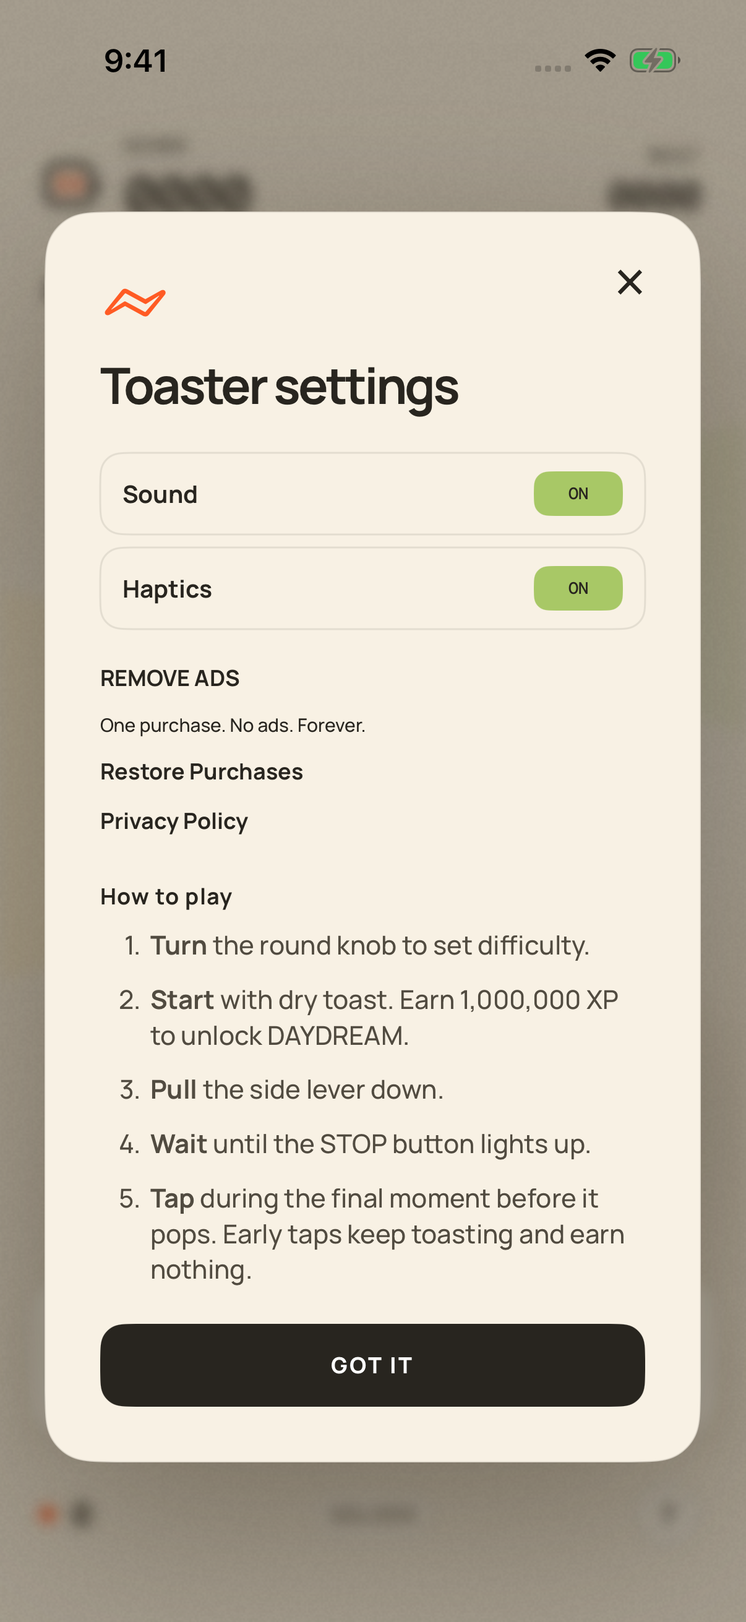
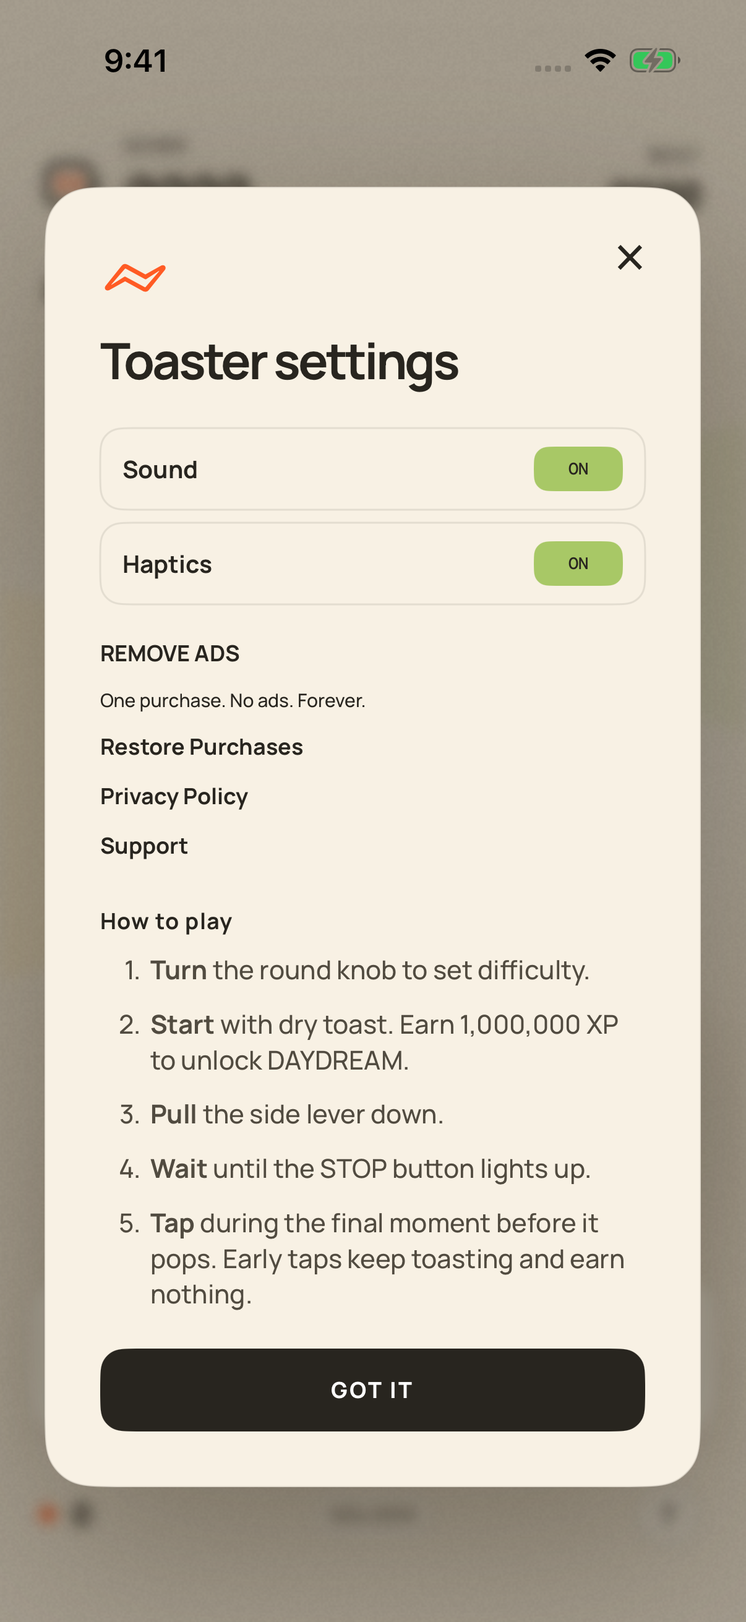
Prepare build 6 with live Toastyy support and privacy links

diff --git a/ios/AppStore/launch-kit/todo.html b/ios/AppStore/launch-kit/todo.html
@@ -1,5 +1,5 @@
 <!doctype html><html lang="de"><head><meta charset="utf-8"><meta name="viewport" content="width=device-width,initial-scale=1"><title>Toastyy · Deine Launch-To-dos</title><style>
 :root{color-scheme:light dark;--background:light-dark(#f7f3e9,#171714);--foreground:light-dark(#29271f,#f5efdf);--muted:light-dark(#686354,#bbb49f);--card:light-dark(#fffaf0,#24231e);--border:light-dark(#ddd4c1,#494438);--primary:light-dark(#a83712,#ffac88);--success:light-dark(#496324,#c0d991);--radius:18px;--font-sans:system-ui,-apple-system,sans-serif}*{box-sizing:border-box}body{margin:0;color:var(--foreground);font-family:var(--font-sans);font-size:15px;line-height:1.55}.wrap{max-width:760px;margin:0 auto}header{padding:12px 0 18px}.eyebrow{color:var(--primary);font-size:11px;letter-spacing:.15em;font-weight:800}h1{font-size:clamp(29px,6vw,42px);line-height:1.1;letter-spacing:-.055em;margin:9px 0 12px}p{margin:9px 0}.muted{color:var(--muted)}.status{background:var(--card);padding:16px;border:1px solid var(--border);border-radius:var(--radius);margin:12px 0 22px}.status strong{color:var(--success)}.status p{margin:5px 0;font-size:13px}.progress-row{display:flex;justify-content:space-between;align-items:center;gap:12px;font-size:13px;margin:0 0 8px}progress{width:100%;height:9px;accent-color:var(--primary);display:block}.task{display:grid;grid-template-columns:24px 1fr;gap:12px;background:var(--card);padding:16px;border:1px solid var(--border);border-radius:var(--radius);margin:9px 0}.task>input{width:21px;height:21px;margin:17px 0 0;accent-color:var(--success);cursor:pointer}summary{cursor:pointer;list-style:none;display:flex;flex-direction:column;gap:3px;padding-right:20px;position:relative}summary::-webkit-details-marker{display:none}summary:after{content:'+';position:absolute;right:0;top:16px;color:var(--muted);font-size:21px}details[open] summary:after{content:'−'}.tag{color:var(--muted);font-size:10px;letter-spacing:.08em;text-transform:uppercase}.task-title{font-weight:700;font-size:16px;line-height:1.4}.task.done .task-title{text-decoration:line-through;color:var(--muted)}.detail{font-size:14px;padding-top:12px;color:var(--muted)}.detail strong{color:var(--foreground)}a{color:var(--primary);text-underline-offset:3px}code{font-size:12px;overflow-wrap:anywhere}.criterion{border-top:1px solid var(--border);padding-top:10px;color:var(--foreground)}.notes{margin-top:22px}label[for=notes]{font-weight:700}textarea{margin-top:8px;display:block;width:100%;min-height:95px;resize:vertical;border:1px solid var(--border);border-radius:12px;background:var(--card);color:var(--foreground);padding:12px;font:inherit}.actions{display:flex;flex-wrap:wrap;gap:9px;margin:14px 0}button,.button{font:inherit;border:1px solid var(--border);border-radius:10px;background:var(--card);color:var(--foreground);padding:9px 13px;cursor:pointer;text-decoration:none}.foot{font-size:12px;color:var(--muted);padding:6px 0 18px}:focus-visible{outline:3px solid var(--primary);outline-offset:4px}@media print{details>.detail{display:block}.actions{display:none}.task{break-inside:avoid}body{font-size:12px}}@media(max-width:430px){.task{padding:13px;gap:9px}.task-title{font-size:15px}}
-</style></head><body><main class="wrap"><header><span class="eyebrow">TOASTYY · RELEASE 1.0</span><h1>Dein Launch-Nachmittag.</h1><p class="muted">Die App steht. Hier sind die letzten Aufgaben – aufklappen, erledigen, abhaken.</p></header><section class="status" aria-label="Vorbereitungsstand"><strong>Vorbereitet: Build 5 hochgeladen, Screenshots und Texte fertig.</strong><p>16 Gameplay-Tests zuvor erfolgreich; beide aktuellen UI-Tests auf iPhone 17 Pro bestanden. Support-Seite, Publisher-Datei und Datenschutz-Arbeitsblatt liegen im Paket.</p><p>Offen: Apple-/Google-Anmeldung, Gerätetests, Website-Veröffentlichung und Produktionsfreigabe. Kontostatus/Apple-Verarbeitung heute nicht verifiziert. Stand: 10. November 2026.</p></section><div class="progress-row"><span id="count" role="status" aria-live="polite">0 von 8 erledigt</span><button type="button" id="expand">Alle öffnen</button></div><progress id="progress" max="8" value="0" aria-label="Dein Fortschritt"></progress><article class="task"><input type="checkbox" id="apple" aria-label="Erledigt: Apple anmelden &amp; Build 5 prüfen"><details><summary><span class="tag">Zugang</span><span class="task-title">Apple anmelden &amp; Build 5 prüfen</span></summary><div class="detail"><p>In App Store Connect anmelden, nötige Zwei-Faktor-Bestätigung selbst erledigen. Unter Toastyy → TestFlight prüfen, dass <strong>1.0.0 (5)</strong> verarbeitet und deiner internen Testgruppe zugewiesen ist. Bei fehlender Einladung deine Apple-ID als internen Tester zuordnen.</p><p><a href="https://appstoreconnect.apple.com/apps/6826357624/testflight/ios" target="_blank" rel="noopener">TestFlight öffnen ↗</a></p><p class="criterion">Erledigt, wenn Build 5 auf deinem iPhone installiert ist.</p></div></details></article><article class="task"><input type="checkbox" id="phone" aria-label="Erledigt: Die App auf deinem iPhone abnehmen"><details><summary><span class="tag">Gerätetest</span><span class="task-title">Die App auf deinem iPhone abnehmen</span></summary><div class="detail"><p>Bestehende Installation über TestFlight aktualisieren. XP/Rekorde müssen bleiben. Hebel tippen und ziehen, Kamerafahrt, alle Schwierigkeiten, Ton/Haptik und App-Wechsel prüfen.</p><p><strong>Wichtig:</strong> Doppeltippen direkt nach Start darf keine Punkte/XP bringen. Erst in den letzten 720 ms wird WAIT zu STOP. Zu spät führt zu verbranntem Toast.</p><p>Auch offline und mit „Bewegung reduzieren“ testen. <a href="device-test.de.md">Ausführliche Testliste</a></p><p class="criterion">Erledigt, wenn keine blockierenden Fehler auftreten; Auffälligkeiten unten notieren.</p></div></details></article><article class="task"><input type="checkbox" id="business" aria-label="Erledigt: Apple-Verträge &amp; EU-Händlerstatus abschließen"><details><summary><span class="tag">Account-Inhaber</span><span class="task-title">Apple-Verträge &amp; EU-Händlerstatus abschließen</span></summary><div class="detail"><p>In App Store Connect → Business den aktuellen Status prüfen. Falls noch offen: Paid Applications Agreement bestätigen und erforderliche Steuer-/Bankdaten ergänzen. Die EU-Händlerregistrierung inklusive E-Mail-/Telefon-/Identitätsprüfung abschließen.</p><p>Die früheren Unterlagen vermerkten offene Bestätigungen; der heutige Status ist ohne Anmeldung nicht geprüft.</p><p><a href="https://appstoreconnect.apple.com/business" target="_blank" rel="noopener">Business öffnen ↗</a> · <a href="https://developer.apple.com/help/app-store-connect/manage-compliance-information/manage-european-union-digital-services-act-trader-requirements/" target="_blank" rel="noopener">Apple-Hilfe ↗</a></p><p class="criterion">Erledigt, wenn relevante Verträge aktiv sind und Apple keine fehlenden Händler-/Zahlungsangaben meldet.</p></div></details></article><article class="task"><input type="checkbox" id="privacy" aria-label="Erledigt: Website &amp; Datenschutzhinweise veröffentlichen"><details><summary><span class="tag">Vorbereitet</span><span class="task-title">Website &amp; Datenschutzhinweise veröffentlichen</span></summary><div class="detail"><p>Support-Seite und app-ads.txt sind fertig. Im <a href="README.md">Release-Paket</a> stehen die konkreten Kopier- und Veröffentlichungsschritte. Der Toastyy-Datenschutzentwurf muss mit der tatsächlichen AdMob-Auswahl abgeglichen und in die bestehende Datenschutzerklärung integriert werden.</p><p>Danach Support-Seite öffentlich prüfen und die Support-URL in App Store Connect setzen. <code>/app-ads.txt</code> lieferte beim Check noch HTTP 404.</p><p><a href="website/toastyy-support.html">Support-Seite ansehen</a> · <a href="../privacy-addition.de.md">Datenschutzentwurf</a> · <a href="https://miomideal.com/privacy-policy" target="_blank" rel="noopener">Aktuelle Website ↗</a></p><p class="criterion">Erledigt, wenn die App-Hinweise, Support-Seite und Publisher-Datei öffentlich erreichbar und korrekt sind.</p></div></details></article><article class="task"><input type="checkbox" id="ads" aria-label="Erledigt: AdMob-Einwilligung &amp; Werbedaten abgleichen"><details><summary><span class="tag">Google-Anmeldung</span><span class="task-title">AdMob-Einwilligung &amp; Werbedaten abgleichen</span></summary><div class="detail"><p>In AdMob die Toastyy-App öffnen: <code>ca-app-pub-5162263720207671~7785962920</code>. Unter Privacy & messaging die passenden Nachrichten/Anbieter/Zwecke konfigurieren und veröffentlichen. Entwicklerwebsite und Store-App korrekt zuordnen; app-ads.txt-Verifizierung prüfen.</p><p>Auf dem iPhone Einwilligung akzeptieren, ablehnen und über Advertising Privacy Choices wieder öffnen, soweit erforderlich. Build 5 nutzt Testanzeigen. Anzeigen sind frühestens nach sechs Runden und zwei Minuten bei einer verbrannten Runde berechtigt.</p><p>Die endgültige Werbeauswahl mit Datenschutztext und Apples App-Privacy-Antworten abstimmen. <a href="app-privacy.de.md">Vorbereitetes Arbeitsblatt</a> · <a href="https://apps.admob.com/" target="_blank" rel="noopener">AdMob öffnen ↗</a></p><p class="criterion">Erledigt, wenn Einwilligung und Testanzeigen funktionieren und die tatsächliche Datennutzung dokumentiert ist.</p></div></details></article><article class="task"><input type="checkbox" id="iap" aria-label="Erledigt: Remove Ads kaufen &amp; wiederherstellen"><details><summary><span class="tag">TestFlight-Sandbox</span><span class="task-title">Remove Ads kaufen &amp; wiederherstellen</span></summary><div class="detail"><p><strong>Aktuell bei deinem Gerätetest bestätigt:</strong> „The purchase is not available yet.“ Das Produkt konnte nicht geladen werden; ein Fehler oder eine leere StoreKit-Produktantwort werden im aktuellen Build gleich behandelt. Zuerst Apple-Vertrag und Produktkonfiguration prüfen.</p><p>Einstellungen → Remove Ads: Preis muss laden. Sandbox-Kauf und Abbruch testen. Nach erfolgreichem Kauf dürfen keine Anzeigen mehr geladen/angezeigt werden. Danach Neustart und Restore Purchases mit demselben Apple-Account prüfen.</p><p>TestFlight-Käufe laufen in der Sandbox. Falls Produkt/Preis fehlen: Vertrag und Produkt <code>com.toastyy.app.removeads</code> in App Store Connect prüfen. Kauf stellt die werbefreie Berechtigung wieder her, keine XP.</p><p><a href="https://appstoreconnect.apple.com/apps/6826357624/distribution" target="_blank" rel="noopener">App Store Connect öffnen ↗</a></p><p class="criterion">Erledigt, wenn Kauf, Abbruch und Wiederherstellung auf dem echten iPhone funktionieren.</p></div></details></article><article class="task"><input type="checkbox" id="store" aria-label="Erledigt: Neue Screenshots &amp; Store-Angaben übernehmen"><details><summary><span class="tag">Upload bereit</span><span class="task-title">Neue Screenshots &amp; Store-Angaben übernehmen</span></summary><div class="detail"><p>Die vier aktualisierten PNGs liegen unter <code>ios/AppStore/screenshots/</code>: drei Store-Screenshots und ein Remove-Ads-Reviewbild. Format: 1206 × 2622, ohne Alpha. Die bisherigen Bilder in App Store Connect ersetzen.</p><p><code>listing.en-US.json</code> enthält passende Beschreibung und Review-Hinweise zum STOP-Fenster. <code>testflight-notes.en.txt</code> enthält die Testhinweise. App Privacy anhand der finalen Werbekonfiguration vervollständigen; nicht pauschal „Keine Daten erfasst“ wählen.</p><p><a href="../screenshots/01-ready.png">Ready</a> · <a href="../screenshots/02-toasting.png">Toasting</a> · <a href="../screenshots/03-collection.png">Collection</a> · <a href="../listing.en-US.json">Store-Texte</a></p><p class="criterion">Erledigt, wenn Bilder, Texte, Support-/Privacy-URL und App-Privacy-Angaben gespeichert sind.</p></div></details></article><article class="task"><input type="checkbox" id="release" aria-label="Erledigt: Produktionsbuild &amp; erste Prüfung abschließen"><details><summary><span class="tag">Nach den Tests</span><span class="task-title">Produktionsbuild &amp; erste Prüfung abschließen</span></summary><div class="detail"><p>Mit den Testergebnissen hier weitermachen: finalen Produktionsbuild mit neuer Buildnummer vorbereiten. Testanzeigen erst nach bestätigter AdMob-/Datenschutzkonfiguration abschalten; Produktionskonfiguration auf registrierten Testgeräten prüfen.</p><p>Verarbeiteten finalen Build auswählen und den ersten Remove-Ads-Kauf zur selben ersten App-Einreichung hinzufügen. Manuelle Veröffentlichung beibehalten. Dann App Review einreichen; nach Freigabe kannst du den Start auslösen.</p><p><strong>Build 5 ist der Testkandidat, kein bereits eingereichter Produktionsrelease.</strong> <a href="https://developer.apple.com/help/app-store-connect/manage-submissions-to-app-review/submit-an-in-app-purchase/" target="_blank" rel="noopener">Apple-Hilfe zur ersten IAP-Einreichung ↗</a></p><p class="criterion">Erledigt, wenn der geprüfte Produktionsbuild samt In-App-Kauf zur Prüfung eingereicht wurde.</p></div></details></article><section class="notes"><label for="notes">Deine Testnotizen</label><p class="muted" style="font-size:12px">Gerät, iOS-Version und Auffälligkeiten. Keine Zugangsdaten oder Codes.</p><textarea id="notes" placeholder="Zum Beispiel: iPhone … / iOS … / Kamerafahrt passt …"></textarea></section><div class="actions"><button type="button" id="export">Fortschritt exportieren</button><button type="button" id="import">Fortschritt laden</button><input id="file" type="file" accept="application/json,.json" hidden><button type="button" id="print">Drucken / PDF</button><a class="button" href="README.md">Zum Release-Paket</a></div><p id="storage" class="foot" role="status">Häkchen und Notizen werden nur in diesem Browser gespeichert. Für einen anderen Browser oder eine spätere Übergabe exportieren.</p></main><script>
-(()=>{'use strict';const key='toastyy-launch-1.0-build5-v1';const boxes=[...document.querySelectorAll('.task>input')];const notes=document.getElementById('notes');const state=()=>({version:1,build:5,checked:boxes.filter(b=>b.checked).map(b=>b.id),notes:notes.value});const paint=()=>{const n=boxes.filter(b=>b.checked).length;document.getElementById('count').textContent=n+' von '+boxes.length+' erledigt';document.getElementById('progress').value=n;boxes.forEach(b=>b.closest('.task').classList.toggle('done',b.checked))};const save=()=>{paint();try{localStorage.setItem(key,JSON.stringify(state()))}catch{document.getElementById('storage').textContent='Lokales Speichern ist hier nicht verfügbar. Bitte den Fortschritt exportieren.'}};const apply=s=>{if(!s||s.version!==1||s.build!==5||!Array.isArray(s.checked)||s.checked.some(x=>typeof x!=='string')||(s.notes!==undefined&&typeof s.notes!=='string'))throw Error('Ungültige Datei');boxes.forEach(b=>b.checked=s.checked.includes(b.id));notes.value=s.notes||'';paint()};try{const raw=localStorage.getItem(key);if(raw)apply(JSON.parse(raw))}catch{}boxes.forEach(b=>b.addEventListener('change',save));notes.addEventListener('input',save);document.getElementById('export').addEventListener('click',()=>{const url=URL.createObjectURL(new Blob([JSON.stringify(state(),null,2)],{type:'application/json'}));const a=document.createElement('a');a.href=url;a.download='toastyy-launch-fortschritt.json';a.click();setTimeout(()=>URL.revokeObjectURL(url),1000)});document.getElementById('import').addEventListener('click',()=>document.getElementById('file').click());document.getElementById('file').addEventListener('change',async e=>{const f=e.target.files[0];if(!f)return;try{apply(JSON.parse(await f.text()));save();document.getElementById('storage').textContent='Fortschritt geladen und lokal gespeichert.'}catch{document.getElementById('storage').textContent='Diese Datei ist keine gültige Toastyy-Checkliste für Build 5.'}e.target.value=''});document.getElementById('print').addEventListener('click',()=>{document.querySelectorAll('details').forEach(d=>d.open=true);window.print()});document.getElementById('expand').addEventListener('click',e=>{const all=[...document.querySelectorAll('details')];const open=all.some(d=>!d.open);all.forEach(d=>d.open=open);e.target.textContent=open?'Alle schließen':'Alle öffnen'});paint()})();
+</style></head><body><main class="wrap"><header><span class="eyebrow">TOASTYY · RELEASE 1.0</span><h1>Dein Launch-Nachmittag.</h1><p class="muted">Die App steht. Hier sind die letzten Aufgaben – aufklappen, erledigen, abhaken.</p></header><section class="status" aria-label="Vorbereitungsstand"><strong>Live: Toastyy-Seiten veröffentlicht. Build 6 hochgeladen.</strong><p>16 Gameplay-Tests zuvor erfolgreich; beide aktuellen UI-Tests auf iPhone 17 Pro bestanden. Support- und Datenschutzseiten sind live; die Publisher-Datei ist auch auf der Hauptdomain erreichbar.</p><p>Offen: W-8BEN-Steuerangaben, Bankverarbeitung, DSA-Prüfung, AdMob und Gerätetests. Paid Apps Agreement: Pending User Info. Apple-Verarbeitung von Build 6 noch nicht geprüft. Stand: 11. November 2026.</p></section><div class="progress-row"><span id="count" role="status" aria-live="polite">0 von 8 erledigt</span><button type="button" id="expand">Alle öffnen</button></div><progress id="progress" max="8" value="0" aria-label="Dein Fortschritt"></progress><article class="task"><input type="checkbox" id="apple" aria-label="Erledigt: Apple anmelden &amp; Build 6 prüfen"><details><summary><span class="tag">Zugang</span><span class="task-title">Apple anmelden &amp; Build 6 prüfen</span></summary><div class="detail"><p>In App Store Connect anmelden, nötige Zwei-Faktor-Bestätigung selbst erledigen. Unter Toastyy → TestFlight prüfen, dass <strong>1.0.0 (5)</strong> verarbeitet und deiner internen Testgruppe zugewiesen ist. Bei fehlender Einladung deine Apple-ID als internen Tester zuordnen.</p><p><a href="https://appstoreconnect.apple.com/apps/6826357624/testflight/ios" target="_blank" rel="noopener">TestFlight öffnen ↗</a></p><p class="criterion">Erledigt, wenn Build 6 auf deinem iPhone installiert ist.</p></div></details></article><article class="task"><input type="checkbox" id="phone" aria-label="Erledigt: Die App auf deinem iPhone abnehmen"><details><summary><span class="tag">Gerätetest</span><span class="task-title">Die App auf deinem iPhone abnehmen</span></summary><div class="detail"><p>Bestehende Installation über TestFlight aktualisieren. XP/Rekorde müssen bleiben. Hebel tippen und ziehen, Kamerafahrt, alle Schwierigkeiten, Ton/Haptik und App-Wechsel prüfen.</p><p><strong>Wichtig:</strong> Doppeltippen direkt nach Start darf keine Punkte/XP bringen. Erst in den letzten 720 ms wird WAIT zu STOP. Zu spät führt zu verbranntem Toast.</p><p>Auch offline und mit „Bewegung reduzieren“ testen. <a href="device-test.de.md">Ausführliche Testliste</a></p><p class="criterion">Erledigt, wenn keine blockierenden Fehler auftreten; Auffälligkeiten unten notieren.</p></div></details></article><article class="task"><input type="checkbox" id="business" aria-label="Erledigt: Apple-Verträge &amp; EU-Händlerstatus abschließen"><details><summary><span class="tag">Account-Inhaber</span><span class="task-title">Apple-Verträge &amp; EU-Händlerstatus abschließen</span></summary><div class="detail"><p>In App Store Connect → Business den aktuellen Status prüfen. Falls noch offen: Paid Applications Agreement bestätigen und erforderliche Steuer-/Bankdaten ergänzen. Die EU-Händlerregistrierung inklusive E-Mail-/Telefon-/Identitätsprüfung abschließen.</p><p>Heute direkt geprüft: Paid Apps Agreement = Pending User Info; W-8BEN = Missing Tax Info; Banking = Processing; EU-Händlerstatus = In Review.</p><p><a href="https://appstoreconnect.apple.com/business" target="_blank" rel="noopener">Business öffnen ↗</a> · <a href="https://developer.apple.com/help/app-store-connect/manage-compliance-information/manage-european-union-digital-services-act-trader-requirements/" target="_blank" rel="noopener">Apple-Hilfe ↗</a></p><p class="criterion">Erledigt, wenn relevante Verträge aktiv sind und Apple keine fehlenden Händler-/Zahlungsangaben meldet.</p></div></details></article><article class="task"><input type="checkbox" id="privacy" aria-label="Erledigt: Website &amp; Datenschutzhinweise veröffentlichen"><details><summary><span class="tag">Vorbereitet</span><span class="task-title">Website &amp; Datenschutzhinweise veröffentlichen</span></summary><div class="detail"><p><strong>Bereits live:</strong> <a href="https://toasty.app.miomideal.com/support.html">Toastyy Support</a>, <a href="https://toasty.app.miomideal.com/privacy.html">App-Datenschutz</a> und <a href="https://miomideal.com/app-ads.txt">app-ads.txt auf der Hauptdomain</a>. Im <a href="README.md">Release-Paket</a> stehen die konkreten Kopier- und Veröffentlichungsschritte. Die eigenständigen App-Datenschutzhinweise sind veröffentlicht. Die finale AdMob-Auswahl und Apples App-Privacy-Antworten müssen dazu passen.</p><p>Support-, Marketing- und Privacy-URL sind bei Apple gespeichert. Alle neuen öffentlichen URLs liefern HTTP 200 mit dem richtigen Inhalt.</p><p><a href="website/toastyy-support.html">Support-Seite ansehen</a> · <a href="../privacy-addition.de.md">Datenschutzentwurf</a> · <a href="https://miomideal.com/privacy-policy" target="_blank" rel="noopener">Aktuelle Website ↗</a></p><p class="criterion">Erledigt, wenn die App-Hinweise, Support-Seite und Publisher-Datei öffentlich erreichbar und korrekt sind.</p></div></details></article><article class="task"><input type="checkbox" id="ads" aria-label="Erledigt: AdMob-Einwilligung &amp; Werbedaten abgleichen"><details><summary><span class="tag">Google-Anmeldung</span><span class="task-title">AdMob-Einwilligung &amp; Werbedaten abgleichen</span></summary><div class="detail"><p>In AdMob die Toastyy-App öffnen: <code>ca-app-pub-5162263720207671~7785962920</code>. Unter Privacy & messaging die passenden Nachrichten/Anbieter/Zwecke konfigurieren und veröffentlichen. Entwicklerwebsite und Store-App korrekt zuordnen; app-ads.txt-Verifizierung prüfen.</p><p>Auf dem iPhone Einwilligung akzeptieren, ablehnen und über Advertising Privacy Choices wieder öffnen, soweit erforderlich. Build 6 nutzt Testanzeigen. Anzeigen sind frühestens nach sechs Runden und zwei Minuten bei einer verbrannten Runde berechtigt.</p><p>Die endgültige Werbeauswahl mit Datenschutztext und Apples App-Privacy-Antworten abstimmen. <a href="app-privacy.de.md">Vorbereitetes Arbeitsblatt</a> · <a href="https://apps.admob.com/" target="_blank" rel="noopener">AdMob öffnen ↗</a></p><p class="criterion">Erledigt, wenn Einwilligung und Testanzeigen funktionieren und die tatsächliche Datennutzung dokumentiert ist.</p></div></details></article><article class="task"><input type="checkbox" id="iap" aria-label="Erledigt: Remove Ads kaufen &amp; wiederherstellen"><details><summary><span class="tag">TestFlight-Sandbox</span><span class="task-title">Remove Ads kaufen &amp; wiederherstellen</span></summary><div class="detail"><p><strong>Aktuell bei deinem Gerätetest bestätigt:</strong> „The purchase is not available yet.“ Das Produkt konnte nicht geladen werden; ein Fehler oder eine leere StoreKit-Produktantwort werden im aktuellen Build gleich behandelt. Zuerst Apple-Vertrag und Produktkonfiguration prüfen.</p><p>Einstellungen → Remove Ads: Preis muss laden. Sandbox-Kauf und Abbruch testen. Nach erfolgreichem Kauf dürfen keine Anzeigen mehr geladen/angezeigt werden. Danach Neustart und Restore Purchases mit demselben Apple-Account prüfen.</p><p>TestFlight-Käufe laufen in der Sandbox. Falls Produkt/Preis fehlen: Vertrag und Produkt <code>com.toastyy.app.removeads</code> in App Store Connect prüfen. Kauf stellt die werbefreie Berechtigung wieder her, keine XP.</p><p><a href="https://appstoreconnect.apple.com/apps/6826357624/distribution" target="_blank" rel="noopener">App Store Connect öffnen ↗</a></p><p class="criterion">Erledigt, wenn Kauf, Abbruch und Wiederherstellung auf dem echten iPhone funktionieren.</p></div></details></article><article class="task"><input type="checkbox" id="store" aria-label="Erledigt: Neue Screenshots &amp; Store-Angaben übernehmen"><details><summary><span class="tag">Upload bereit</span><span class="task-title">Neue Screenshots &amp; Store-Angaben übernehmen</span></summary><div class="detail"><p>Die vier aktualisierten PNGs liegen unter <code>ios/AppStore/screenshots/</code>: drei Store-Screenshots und ein Remove-Ads-Reviewbild. Format: 1206 × 2622, ohne Alpha. Die drei aktuellen Gameplay-Bilder sind bereits in App Store Connect gespeichert.</p><p><code>listing.en-US.json</code> enthält passende Beschreibung und Review-Hinweise zum STOP-Fenster. <code>testflight-notes.en.txt</code> enthält die Testhinweise. App Privacy anhand der finalen Werbekonfiguration vervollständigen; nicht pauschal „Keine Daten erfasst“ wählen.</p><p><a href="../screenshots/01-ready.png">Ready</a> · <a href="../screenshots/02-toasting.png">Toasting</a> · <a href="../screenshots/03-collection.png">Collection</a> · <a href="../listing.en-US.json">Store-Texte</a></p><p class="criterion">Erledigt, wenn Bilder, Texte, Support-/Privacy-URL und App-Privacy-Angaben gespeichert sind.</p></div></details></article><article class="task"><input type="checkbox" id="release" aria-label="Erledigt: Produktionsbuild &amp; erste Prüfung abschließen"><details><summary><span class="tag">Nach den Tests</span><span class="task-title">Produktionsbuild &amp; erste Prüfung abschließen</span></summary><div class="detail"><p>Mit den Testergebnissen hier weitermachen: finalen Produktionsbuild mit neuer Buildnummer vorbereiten. Testanzeigen erst nach bestätigter AdMob-/Datenschutzkonfiguration abschalten; Produktionskonfiguration auf registrierten Testgeräten prüfen.</p><p>Verarbeiteten finalen Build auswählen und den ersten Remove-Ads-Kauf zur selben ersten App-Einreichung hinzufügen. Manuelle Veröffentlichung beibehalten. Dann App Review einreichen; nach Freigabe kannst du den Start auslösen.</p><p><strong>Build 6 ist der Testkandidat, kein bereits eingereichter Produktionsrelease.</strong> <a href="https://developer.apple.com/help/app-store-connect/manage-submissions-to-app-review/submit-an-in-app-purchase/" target="_blank" rel="noopener">Apple-Hilfe zur ersten IAP-Einreichung ↗</a></p><p class="criterion">Erledigt, wenn der geprüfte Produktionsbuild samt In-App-Kauf zur Prüfung eingereicht wurde.</p></div></details></article><section class="notes"><label for="notes">Deine Testnotizen</label><p class="muted" style="font-size:12px">Gerät, iOS-Version und Auffälligkeiten. Keine Zugangsdaten oder Codes.</p><textarea id="notes" placeholder="Zum Beispiel: iPhone … / iOS … / Kamerafahrt passt …"></textarea></section><div class="actions"><button type="button" id="export">Fortschritt exportieren</button><button type="button" id="import">Fortschritt laden</button><input id="file" type="file" accept="application/json,.json" hidden><button type="button" id="print">Drucken / PDF</button><a class="button" href="README.md">Zum Release-Paket</a></div><p id="storage" class="foot" role="status">Häkchen und Notizen werden nur in diesem Browser gespeichert. Für einen anderen Browser oder eine spätere Übergabe exportieren.</p></main><script>
+(()=>{'use strict';const key='toastyy-launch-1.0-build5-v1';const boxes=[...document.querySelectorAll('.task>input')];const notes=document.getElementById('notes');const state=()=>({version:1,build:6,checked:boxes.filter(b=>b.checked).map(b=>b.id),notes:notes.value});const paint=()=>{const n=boxes.filter(b=>b.checked).length;document.getElementById('count').textContent=n+' von '+boxes.length+' erledigt';document.getElementById('progress').value=n;boxes.forEach(b=>b.closest('.task').classList.toggle('done',b.checked))};const save=()=>{paint();try{localStorage.setItem(key,JSON.stringify(state()))}catch{document.getElementById('storage').textContent='Lokales Speichern ist hier nicht verfügbar. Bitte den Fortschritt exportieren.'}};const apply=s=>{if(!s||s.version!==1||![5,6].includes(s.build)||!Array.isArray(s.checked)||s.checked.some(x=>typeof x!=='string')||(s.notes!==undefined&&typeof s.notes!=='string'))throw Error('Ungültige Datei');boxes.forEach(b=>b.checked=s.checked.includes(b.id));notes.value=s.notes||'';paint()};try{const raw=localStorage.getItem(key);if(raw)apply(JSON.parse(raw))}catch{}boxes.forEach(b=>b.addEventListener('change',save));notes.addEventListener('input',save);document.getElementById('export').addEventListener('click',()=>{const url=URL.createObjectURL(new Blob([JSON.stringify(state(),null,2)],{type:'application/json'}));const a=document.createElement('a');a.href=url;a.download='toastyy-launch-fortschritt.json';a.click();setTimeout(()=>URL.revokeObjectURL(url),1000)});document.getElementById('import').addEventListener('click',()=>document.getElementById('file').click());document.getElementById('file').addEventListener('change',async e=>{const f=e.target.files[0];if(!f)return;try{apply(JSON.parse(await f.text()));save();document.getElementById('storage').textContent='Fortschritt geladen und lokal gespeichert.'}catch{document.getElementById('storage').textContent='Diese Datei ist keine gültige Toastyy-Checkliste für Build 6.'}e.target.value=''});document.getElementById('print').addEventListener('click',()=>{document.querySelectorAll('details').forEach(d=>d.open=true);window.print()});document.getElementById('expand').addEventListener('click',e=>{const all=[...document.querySelectorAll('details')];const open=all.some(d=>!d.open);all.forEach(d=>d.open=open);e.target.textContent=open?'Alle schließen':'Alle öffnen'});paint()})();
 </script></body></html>

diff --git a/ios/AppStore/launch-kit/website/toastyy-support.html b/ios/AppStore/launch-kit/website/toastyy-support.html
@@ -1,9 +1,11 @@
 <!doctype html>
-<html lang="en"><head><meta charset="utf-8"><meta name="viewport" content="width=device-width,initial-scale=1"><title>Toastyy Support · Mio Mideal</title><meta name="description" content="Help with Toastyy timing, sound, local progress and restoring Remove Ads."><style>
+<html lang="en"><head><meta charset="utf-8"><meta name="viewport" content="width=device-width,initial-scale=1"><title>Toastyy Support · Mio Mideal</title><link rel="canonical" href="https://toasty.app.miomideal.com/support.html"><meta name="description" content="Help with Toastyy timing, sound, local progress and restoring Remove Ads."><style>
 :root{color-scheme:light;font-family:system-ui,sans-serif;color:#28251f;background:#f2e9d8}*{box-sizing:border-box}body{margin:0}main{max-width:760px;margin:0 auto;padding:48px 24px}header{margin-bottom:36px}h1{font-size:clamp(36px,8vw,64px);letter-spacing:-.06em;margin:10px 0}h2{font-size:21px;margin:0 0 12px}p,li{line-height:1.7}section{padding:24px;border:1px solid #d7cbb5;border-radius:20px;background:#faf5e8;margin:16px 0}a{color:#98360f;text-underline-offset:3px}a:focus-visible{outline:3px solid #ff5b24;outline-offset:4px}.brand{font-weight:800;letter-spacing:.14em;font-size:13px}footer{font-size:14px;margin-top:30px}
+
+nav{display:flex;flex-wrap:wrap;gap:18px}code{overflow-wrap:anywhere}section[id]{scroll-margin-top:24px}.updated{color:#75634d;font-size:14px}
 </style></head><body><main><header><span class="brand">TOASTYY</span><h1>A little help with your toast.</h1><p>Contact <a href="mailto:legal@miomideal.com">legal@miomideal.com</a> for support. Include your app version, iPhone model, iOS version and steps to reproduce the issue. Please do not send passwords, verification codes or payment details.</p></header>
 <section><h2>How to play</h2><p>Turn the knob to choose difficulty and pull the lever. Wait for the orange button to change from WAIT to STOP, then tap the screen or STOP before the toast burns. Only the final 720 milliseconds accept a stop. Early taps keep the toaster running and earn nothing.</p><p>Save a slice to earn XP; a burnt slice earns 5 XP. DAYDREAM unlocks at 1,000,000 total XP.</p></section>
 <section><h2>Sound and haptics</h2><p>Toggle them independently in Settings. Sound follows your iPhone’s silent mode. Haptics require a supported physical device. The app respects Reduce Motion.</p></section>
 <section><h2>Restore Remove Ads</h2><p>Open Settings → Restore Purchases using the Apple Account that bought Remove Ads. It is a one-time purchase, with no subscription. Contact <a href="https://reportaproblem.apple.com/">Apple for billing and refunds</a>.</p><p>Your XP and records are stored on your device. Deleting the app can remove this progress. Restoring a purchase restores the ad-free entitlement, not your XP.</p></section>
-<section><h2>Advertising and privacy</h2><p>The game remains playable when an ad cannot load. Where required, Settings includes Advertising Privacy Choices. To report an inappropriate ad, use its reporting controls or contact support with the advertiser name, approximate time and a screenshot.</p><p><a href="https://miomideal.com/privacy-policy">Privacy policy</a></p></section>
-<footer><a href="https://miomideal.com/legal-notice">Legal notice</a> · <a href="https://miomideal.com/">Mio Mideal</a></footer></main></body></html>
+<section><h2>Advertising and privacy</h2><p>The game remains playable when an ad cannot load. Where required, Settings includes Advertising Privacy Choices. To report an inappropriate ad, use its reporting controls or contact support with the advertiser name, approximate time and a screenshot.</p><p><a href="https://toasty.app.miomideal.com/privacy.html">Privacy policy</a></p></section>
+<footer><a href="https://toasty.app.miomideal.com/">Play Toastyy</a> · <a href="https://miomideal.com/legal-notice">Legal notice</a> · <a href="https://miomideal.com/">Mio Mideal</a></footer></main></body></html>

diff --git a/ios/Toastyy/App/Monetization.swift b/ios/Toastyy/App/Monetization.swift
@@ -8,7 +8,8 @@ import UserMessagingPlatform
 @MainActor
 final class Monetization: NSObject, ObservableObject, FullScreenContentDelegate {
     static let productID = "com.toastyy.app.removeads"
-    static let privacyURL = URL(string: "https://miomideal.com/privacy-policy")!
+    static let privacyURL = URL(string: "https://toasty.app.miomideal.com/privacy.html")!
+    static let supportURL = URL(string: "https://toasty.app.miomideal.com/support.html")!
     @Published private(set) var adsRemoved = false
     @Published private(set) var product: Product?
     @Published private(set) var busy = false

diff --git a/ios/Toastyy/Views/SettingsView.swift b/ios/Toastyy/Views/SettingsView.swift
@@ -45,6 +45,7 @@ struct SettingsDialog: View {
                         .disabled(monetization.busy)
                         .accessibilityIdentifier("restorePurchases")
                     Link("Privacy Policy", destination: Monetization.privacyURL)
+                    Link("Support", destination: Monetization.supportURL)
                     if monetization.privacyOptionsRequired {
                         Button("Advertising Privacy Choices") { Task { await monetization.privacyOptions() } }
                     }

diff --git a/ios/AppStore/launch-kit/README.md b/ios/AppStore/launch-kit/README.md
@@ -1,6 +1,6 @@
 # Toastyy · Release-Paket
 
-Stand: 10. November 2026. TestFlight 1.0.0 (5) wurde erfolgreich hochgeladen.
+Stand: 11. November 2026. TestFlight 1.0.0 (6) wurde erfolgreich hochgeladen.
 Apple-Verarbeitungsstatus und Testgruppen sind ohne erneute Anmeldung nicht geprüft.
 
 ## Vorbereitet
@@ -16,27 +16,34 @@ Apple-Verarbeitungsstatus und Testgruppen sind ohne erneute Anmeldung nicht gepr
   Keine Alpha-Kanäle; `screenshot-manifest.json` enthält Prüfsummen. Noch nicht hochgeladen.
 - `todo.html`: persönliche Checkliste mit lokal gespeicherten Häkchen und Export.
 
-## Website veröffentlichen
+## Website ist live · 11. November 2026
 
-Das lokale Website-Projekt liegt unter `/Users/heroine/ras/dev/mio/mio_page`.
-Dort liegen fremde, noch nicht committete Änderungen. Deshalb wurde keine
-Website-Veröffentlichung oder Änderung an diesen Arbeiten vorgenommen.
+- Support: https://toasty.app.miomideal.com/support.html
+- App-Datenschutz: https://toasty.app.miomideal.com/privacy.html
+- Publisher-Datei: https://toasty.app.miomideal.com/app-ads.txt
+- Crawler-Einstieg: https://miomideal.com/app-ads.txt
 
-1. `website/toastyy-support.html` nach `mio_page/public/toastyy-support.html` kopieren.
-2. `website/app-ads.txt` nach `mio_page/public/app-ads.txt` kopieren. Vorhandene Publisher-Zeilen erhalten.
-3. Die geprüfte Toastyy-Ergänzung in `mio_page/src/app/privacy-policy/page.tsx` einbauen.
-   Die Aussage zu fehlenden Marketing-Cookies ausdrücklich auf die Website begrenzen.
-4. Gezielt Website-Änderungen prüfen und deployen; keine fremden Änderungen blind mit veröffentlichen.
-5. Öffentlich prüfen:
-   - `https://miomideal.com/toastyy-support.html` zeigt die Support-Seite.
-   - `https://miomideal.com/app-ads.txt` liefert den Publisher-Eintrag als Text.
-   - `https://miomideal.com/privacy-policy` enthält die geprüfte Toastyy-Ergänzung.
-6. Erst dann in App Store Connect die Support-URL auf die neue Seite ändern.
-   In AdMob die Store-App und Entwicklerwebsite korrekt zuordnen und Verifizierung anstoßen.
+Alle vier URLs liefern HTTP 200 mit dem erwarteten Inhalt. Support/Marketing-URL
+und Privacy Policy URL sind in App Store Connect gespeichert. Der Webserver
+behält `.html`-Adressen, damit die Spiel-Fallbackroute diese Seiten nicht ersetzt.
+
+Google crawlt bei verschachtelten Subdomains höchstens die erste Subdomain und
+anschließend die Hauptdomain. Daher wurde auf der Hauptdomain ausschließlich
+`public/app-ads.txt` ergänzt (mio_page Commit 4729be2). Die übrigen Mio-Seiten und
+nicht committeten Arbeiten im ursprünglichen Checkout bleiben unverändert.
+Quelle: https://support.google.com/admob/answer/9363762?hl=en
+
+## Aktueller Apple-Status
+
+Direkt geprüft am 11. November: Paid Apps Agreement = Pending User Info;
+W-8BEN = Missing Tax Info; Banking = Processing; DSA = In Review.
+Remove Ads ist angelegt, weltweit verfügbar und kostet in Deutschland EUR 2.99.
+Der steuerliche Abschluss und ein erfolgreicher Kauf-/Restore-Test auf dem
+Gerät stehen aus. Keine Steuerangaben wurden stellvertretend bestätigt.
 
 ## Finale Veröffentlichung
 
-Build 5 nutzt weiterhin **Testanzeigen**. Er wurde nicht zur öffentlichen App-Prüfung eingereicht.
+Build 6 nutzt weiterhin **Testanzeigen**. Er wurde nicht zur öffentlichen App-Prüfung eingereicht.
 Nach Konto-, Datenschutz-, UMP- und Gerätetests einen neuen Produktionsbuild mit
 neuer Buildnummer erstellen; Testanzeigen erst nach vollständiger Konfiguration
 abschalten. Produktionswerbung beim Test nur mit registrierten Testgeräten prüfen.
@@ -45,6 +52,7 @@ Manuelle Freigabe in App Store Connect beibehalten.
 
 ## Zugriffe
 
-App Store Connect und AdMob zeigten beim heutigen Check jeweils die Anmeldeseite.
-Kein Accountstatus, Vertrag, Datenschutzeintrag oder Store-Screenshot wurde in
-App Store Connect verändert. Keine privaten Schlüssel oder Zugangsdaten liegen im Paket.
+App Store Connect ist angemeldet. Store-Texte und Screenshots wurden aktualisiert.
+AdMob benötigt noch Anmeldung; finale App-Privacy-Antworten und öffentliche
+Einreichung sind offen. Coolify wurde per privater API-Eingabe genutzt.
+Keine privaten Schlüssel oder Zugangsdaten liegen im Paket.

diff --git a/ios/AppStore/README.md b/ios/AppStore/README.md
@@ -2,6 +2,19 @@
 
 Prepared for App Store Connect app 6826357624.
 
+## Current release preparation · 2026-11-11
+
+- Build 6 uploaded to TestFlight; includes dedicated support/privacy links.
+- Both build 6 simulator UI tests passed.
+- Support/privacy pages deployed and HTTPS-verified on toasty.app.miomideal.com.
+- app-ads.txt also deployed and text/plain-verified on miomideal.com for crawler discovery.
+- Current description, review notes and three gameplay screenshots saved in Apple.
+- Support/marketing URLs and app-specific privacy policy URL saved in Apple.
+- Paid Apps Agreement remains Pending User Info; W-8BEN is Missing Tax Info.
+  Bank details are Processing and DSA trader verification is In Review.
+- AdMob consent configuration and final App Privacy declaration remain open.
+- The public app has not been submitted for review. Advertising remains test-only.
+
 ## Latest handoff · 2026-11-10
 
 - TestFlight 1.0.0 (5) uploaded successfully with the approved enlarged toaster,

diff --git a/ios/TESTFLIGHT.md b/ios/TESTFLIGHT.md
@@ -64,8 +64,9 @@ user data, signing certificates, provisioning profiles, or private keys.
 - The repository includes an app icon, launch configuration, privacy manifest,
   version/build settings, and an archive-enabled shared scheme.
 - The project uses team `9XGAA62775` and bundle identifier `com.toastyy.app`,
-  matching App Store Connect app `6826357624`. Version 1.0.0 build 5 contains
-  the enlarged toaster, final stop window and active camera tracking. Increment the build number for later uploads.
+  matching App Store Connect app `6826357624`. Version 1.0.0 build 6 contains
+  the enlarged toaster, final stop window, active camera tracking, and dedicated
+  support/privacy links. Increment the build number for later uploads.
 - The GitHub workflow builds/tests the simulator app. It does **not** sign,
   archive, or upload to TestFlight. Automated uploads can be configured after
   the first working signed upload.

diff --git a/ios/AppStore/privacy-addition.de.md b/ios/AppStore/privacy-addition.de.md
@@ -1,7 +1,8 @@
 # Toastyy – Ergänzung zur Datenschutzerklärung
 
-Redaktionsentwurf zur Ergänzung von https://miomideal.com/privacy-policy.
-Noch nicht veröffentlicht. Vor Veröffentlichung die endgültigen AdMob-
+Redaktionsvorlage. Eine angepasste eigenständige Fassung ist seit 11. November
+2026 unter https://toasty.app.miomideal.com/privacy.html veröffentlicht
+(Quelle: public/privacy.html). Vor Veröffentlichung die endgültigen AdMob-
 Einwilligungsnachrichten, Anbieter, Aufbewahrung und Kontaktangaben abgleichen.
 Die vorhandenen Abschnitte zu Verantwortlichem, Betroffenenrechten und
 Aufsichtsbehörde gelten auch für Toastyy.

diff --git a/ios/RELEASE_SCOPE.md b/ios/RELEASE_SCOPE.md
@@ -38,3 +38,8 @@ keep toasting and earn no points or XP. Includes build 3's test-ad and StoreKit 
 Adds smooth camera tracking as the toaster turns at the start of a round. The
 active cabinet centers in the stage and returns to its optical idle offset
 afterward. Reduced Motion uses an immediate transition.
+
+## TestFlight 1.0.0 (6)
+
+Uses Toastyy-specific support and privacy pages on toasty.app.miomideal.com.
+Settings includes a direct Support link. Advertising remains in test mode.
